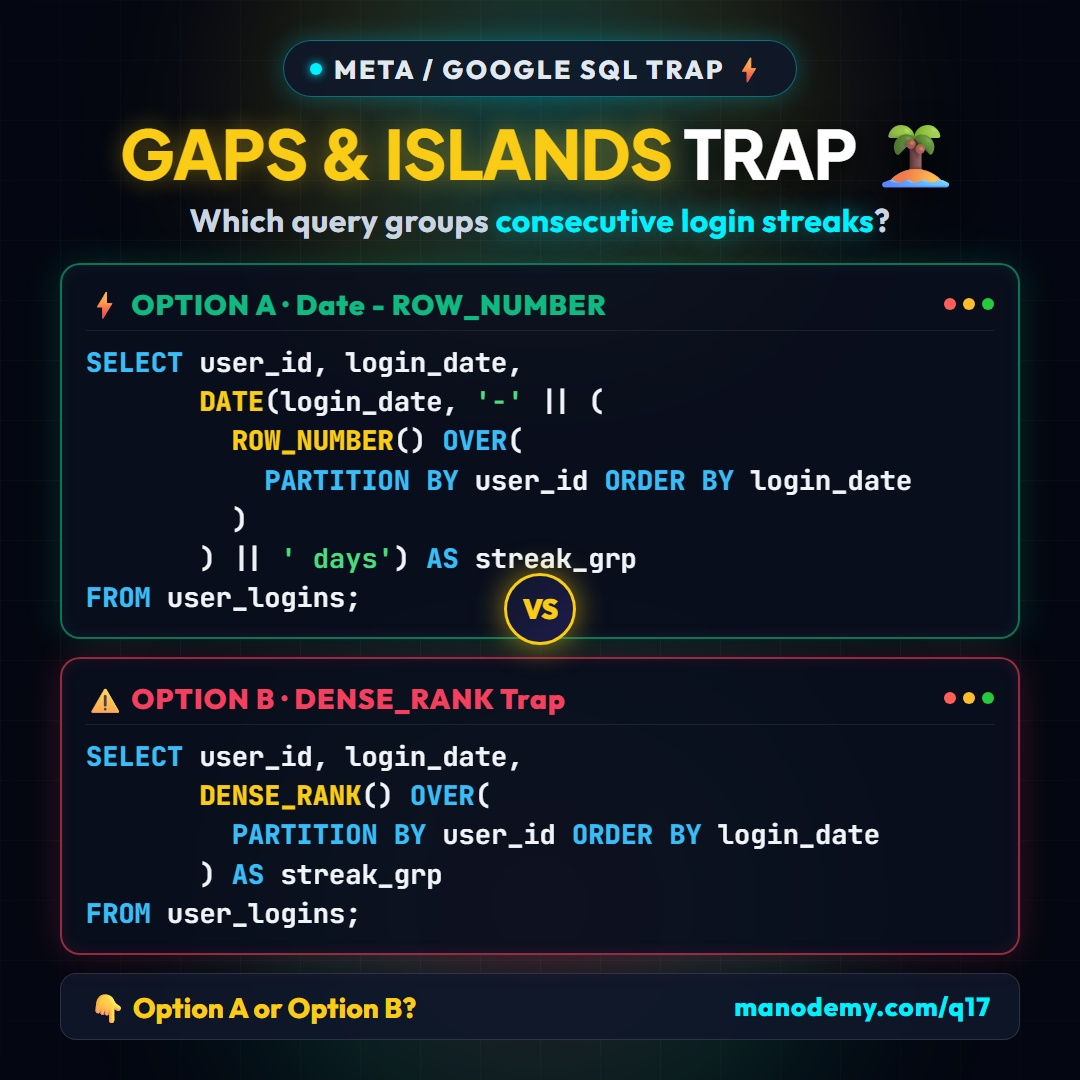
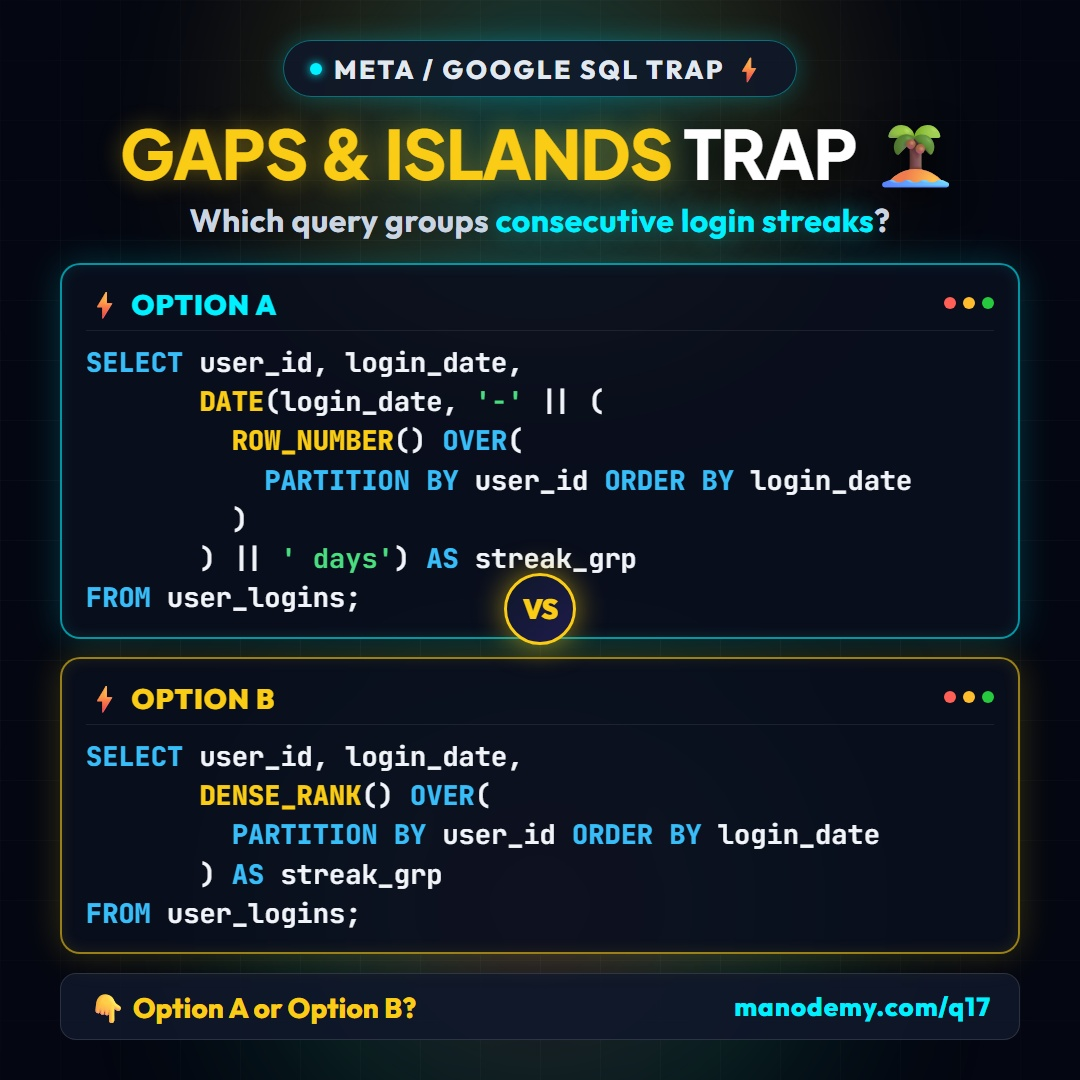
fix(marketing): remove spoilers and trap labels from thumbnail card headers for zero-clue curiosity

diff --git a/marketing/generate_sample_cover.py b/marketing/generate_sample_cover.py
@@ -163,13 +163,13 @@ HTML_COVER = """<!DOCTYPE html>
   }
 
   .card-a {
-    border: 2px solid rgba(16, 185, 129, 0.6);
-    box-shadow: 0 0 35px rgba(16, 185, 129, 0.2), inset 0 0 15px rgba(16, 185, 129, 0.1);
+    border: 2px solid rgba(0, 240, 255, 0.6);
+    box-shadow: 0 0 35px rgba(0, 240, 255, 0.2), inset 0 0 15px rgba(0, 240, 255, 0.1);
   }
 
   .card-b {
-    border: 2px solid rgba(244, 63, 94, 0.6);
-    box-shadow: 0 0 35px rgba(244, 63, 94, 0.2), inset 0 0 15px rgba(244, 63, 94, 0.1);
+    border: 2px solid rgba(250, 204, 21, 0.6);
+    box-shadow: 0 0 35px rgba(250, 204, 21, 0.2), inset 0 0 15px rgba(250, 204, 21, 0.1);
   }
 
   .card-header {
@@ -189,8 +189,8 @@ HTML_COVER = """<!DOCTYPE html>
     align-items: center;
     gap: 8px;
   }
-  .label-a { color: #10b981; }
-  .label-b { color: #f43f5e; }
+  .label-a { color: #00f0ff; }
+  .label-b { color: #facc15; }
 
   .mac-dots {
     display: flex;
@@ -298,7 +298,7 @@ HTML_COVER = """<!DOCTYPE html>
       <!-- Card A -->
       <div class="code-card card-a">
         <div class="card-header">
-          <div class="card-label label-a">⚡ OPTION A · Date - ROW_NUMBER</div>
+          <div class="card-label label-a">⚡ OPTION A</div>
           <div class="mac-dots">
             <div class="mac-dot" style="background:#ff5f56;"></div>
             <div class="mac-dot" style="background:#ffbd2e;"></div>
@@ -317,7 +317,7 @@ HTML_COVER = """<!DOCTYPE html>
       <!-- Card B -->
       <div class="code-card card-b">
         <div class="card-header">
-          <div class="card-label label-b">⚠ OPTION B · DENSE_RANK Trap</div>
+          <div class="card-label label-b">⚡ OPTION B</div>
           <div class="mac-dots">
             <div class="mac-dot" style="background:#ff5f56;"></div>
             <div class="mac-dot" style="background:#ffbd2e;"></div>
